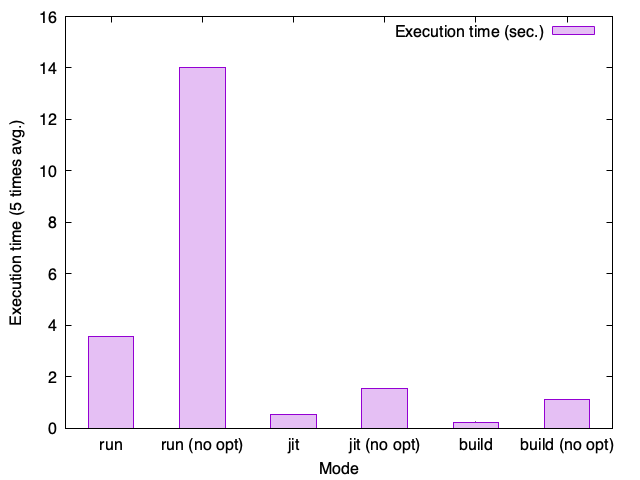
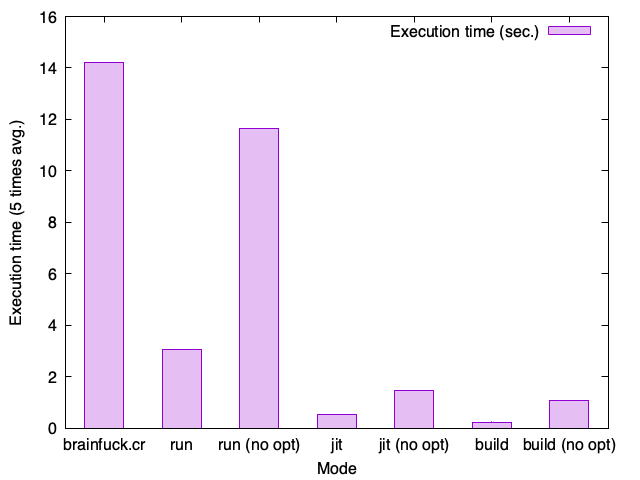
Add brainfuck.cr in comparison
Modified version of an interpreter in the official Crystal examples: https://gist.githubusercontent.com/soya-daizu/16eed302d7d4d55181f5f5243ef08a50/raw/0d7effeffb64808b5f8717d3013ef65b8d746eec/patched_brainfuck.cr

diff --git a/README.md b/README.md
@@ -40,27 +40,31 @@ $ ./out # Built executables are named "out"
 
 `build` and `build --no-opt` does not take compile time into account.
 
+\*[brainfuck.cr](https://gist.github.com/soya-daizu/16eed302d7d4d55181f5f5243ef08a50) is a patched version of brainfuck interpreter found in the official Crystal examples. The original source code can be found at: https://github.com/crystal-lang/crystal/blob/master/samples/brainfuck.cr
+
 ### factor.bf
 
-| run   | run (no opt) | jit   | jit (no opt) | build | build (no opt) |
-| ----- | ------------ | ----- | ------------ | ----- | -------------- |
-| 3.577 | 14.031       | 0.551 | 1.543        | 0.227 | 1.108          |
+Used "179424691" as an input
+
+| brainfuck.cr | run  | run (no opt) | jit   | jit (no opt) | build | build (no opt) |
+| ------------ | ---- | ------------ | ----- | ------------ | ----- | -------------- |
+| 14.196       | 3.05 | 11.647       | 0.517 | 1.45         | 0.216 | 1.065          |
 
 ![chart](media/factor.png)
 
 ### mandelbrot.bf
 
-| run   | run (no opt) | jit   | jit (no opt) | build | build (no opt) |
-| ----- | ------------ | ----- | ------------ | ----- | -------------- |
-| 7.723 | 46.326       | 3.487 | 4.255        | 1.286 | 3.701          |
+| brainfuck.cr | run   | run (no opt) | jit   | jit (no opt) | build | build (no opt) |
+| ------------ | ----- | ------------ | ----- | ------------ | ----- | -------------- |
+| 47.77        | 6.591 | 34.954       | 2.989 | 4.001        | 1.234 | 3.549          |
 
 ![chart](media/mandelbrot.png)
 
 ### hanoi.bf
 
-| run   | run (no opt) | jit   | jit (no opt) | build | build (no opt) |
-| ----- | ------------ | ----- | ------------ | ----- | -------------- |
-| 0.628 | 22.375       | 8.642 | 17.552       | 0.085 | 8.882          |
+| brainfuck.cr | run   | run (no opt) | jit  | jit (no opt) | build | build (no opt) |
+| ------------ | ----- | ------------ | ---- | ------------ | ----- | -------------- |
+| 43.191       | 0.483 | 18.922       | 7.86 | 16.873       | 0.075 | 8.559          |
 
 ![chart](media/hanoi.png)
 
